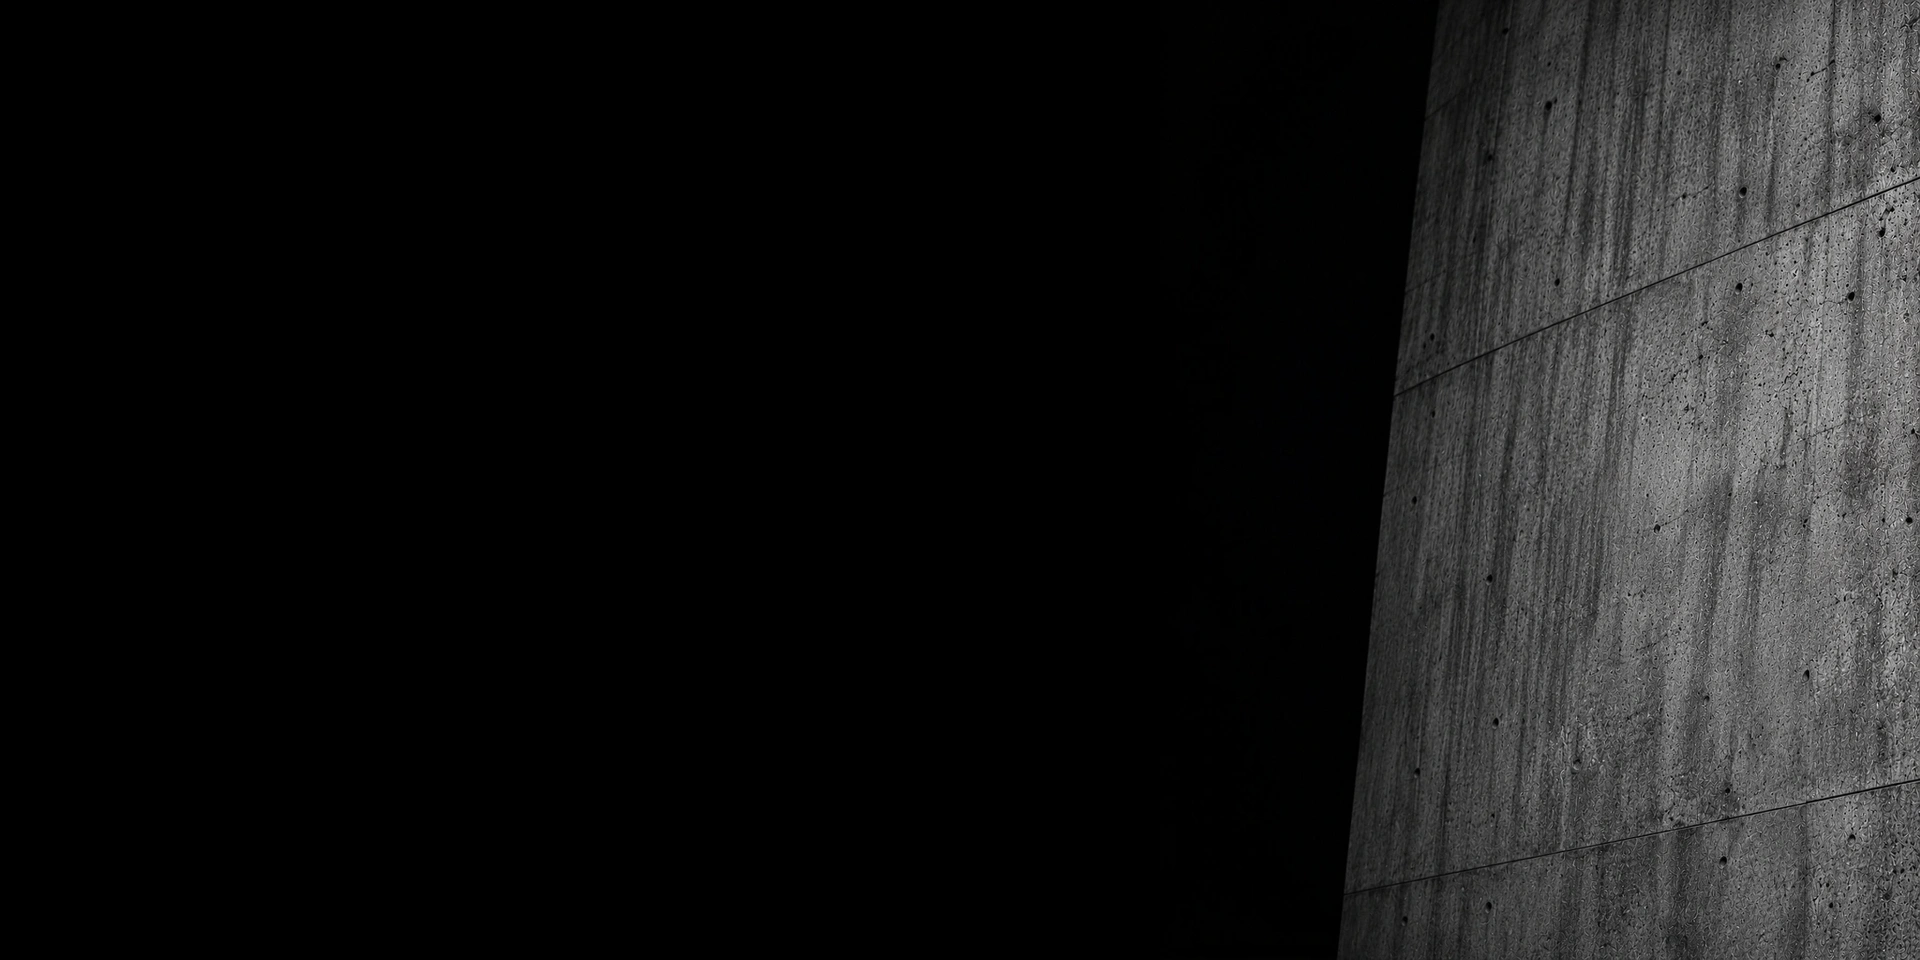
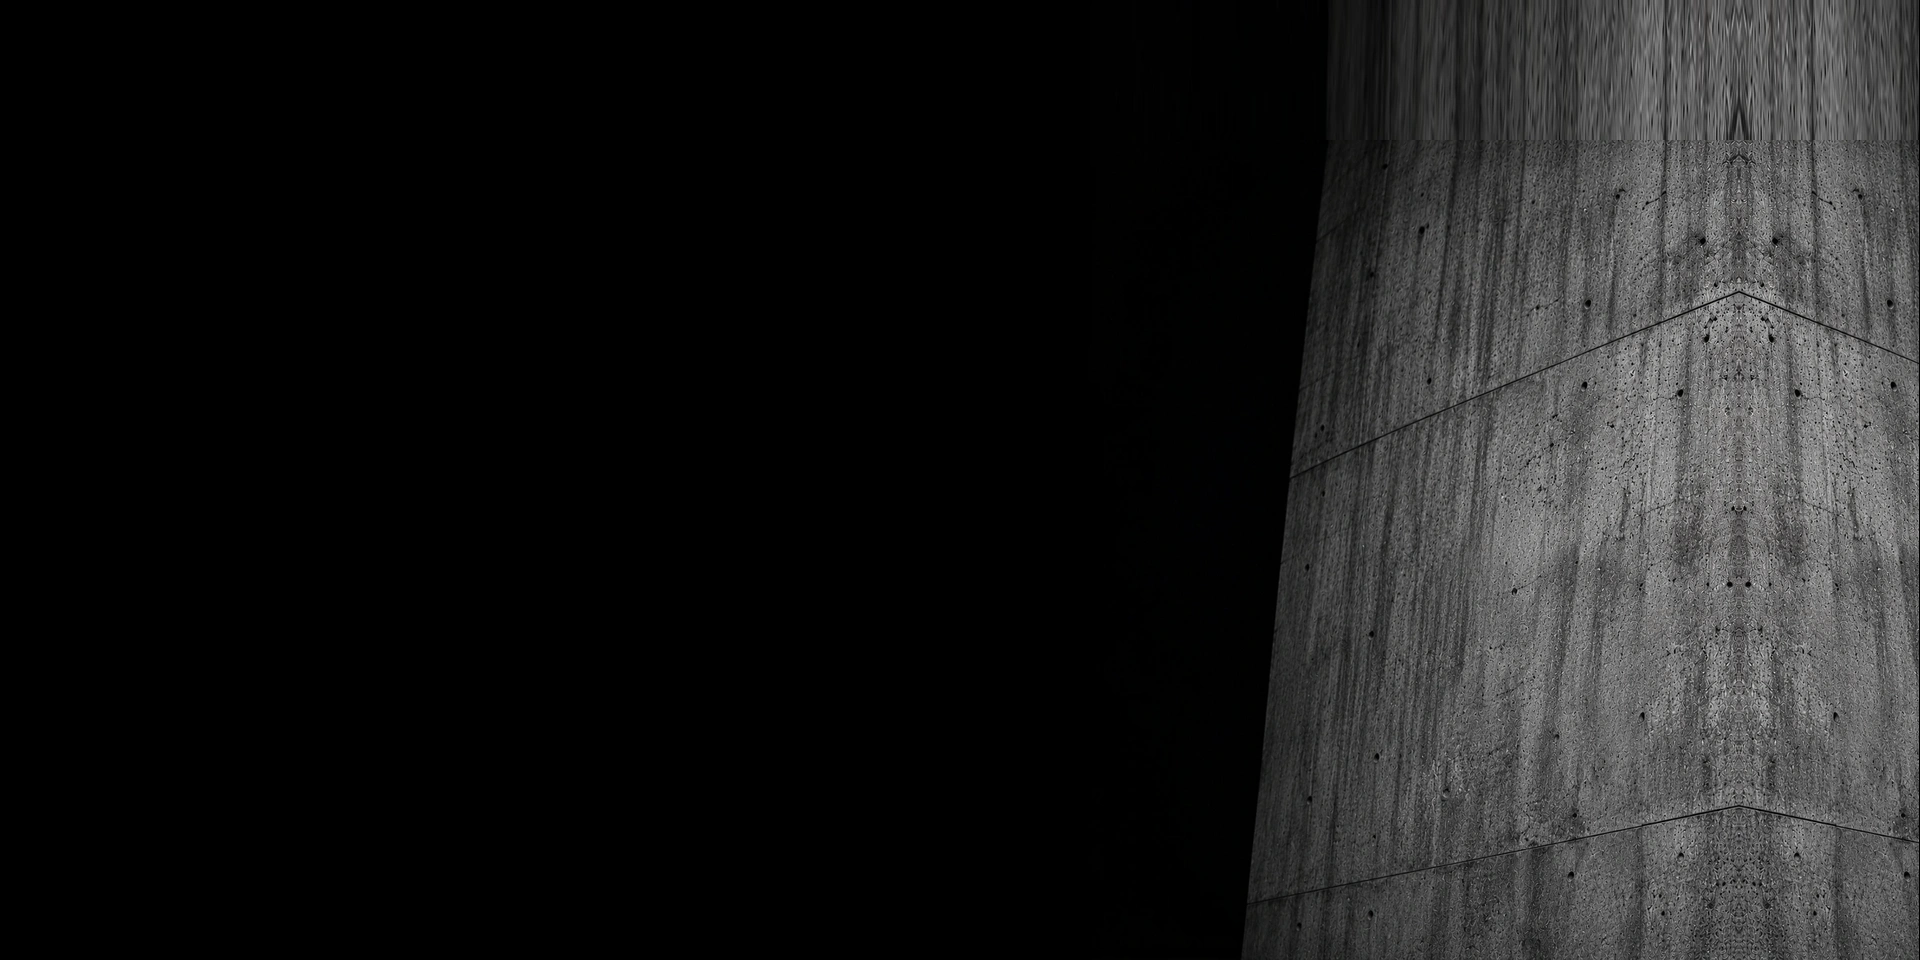
fix(hero): scale down desktop model by 18% and shift left with extended concrete wall

Changed region(s): [[0.625, 0.0, 1.0, 1.0]]

diff --git a/src/features/storefront/components/hero-section.tsx b/src/features/storefront/components/hero-section.tsx
@@ -94,7 +94,7 @@ export function HeroSection() {
       {/* 2. Middle Layer: Ghosted Giant C Brand Mark (strictly BEHIND subject) */}
       <div
         aria-hidden="true"
-        className="hero-animate-ghost pointer-events-none absolute right-[-2%] top-[-1%] -z-20 h-[58%] w-auto select-none opacity-50 mix-blend-screen transition-transform duration-500 ease-out sm:right-[6%] sm:top-[6%] sm:h-[68%] lg:right-[8%] lg:top-[8%] lg:h-[72%] will-change-transform"
+        className="hero-animate-ghost pointer-events-none absolute right-[-2%] top-[-1%] -z-20 h-[58%] w-auto select-none opacity-50 mix-blend-screen transition-transform duration-500 ease-out sm:right-[11%] sm:top-[10%] sm:h-[64%] lg:right-[13%] lg:top-[12%] lg:h-[68%] will-change-transform"
         style={{
           transform: `translate3d(${mouseOffset.x * 24}px, ${mouseOffset.y * 24}px, 0)`,
         }}
